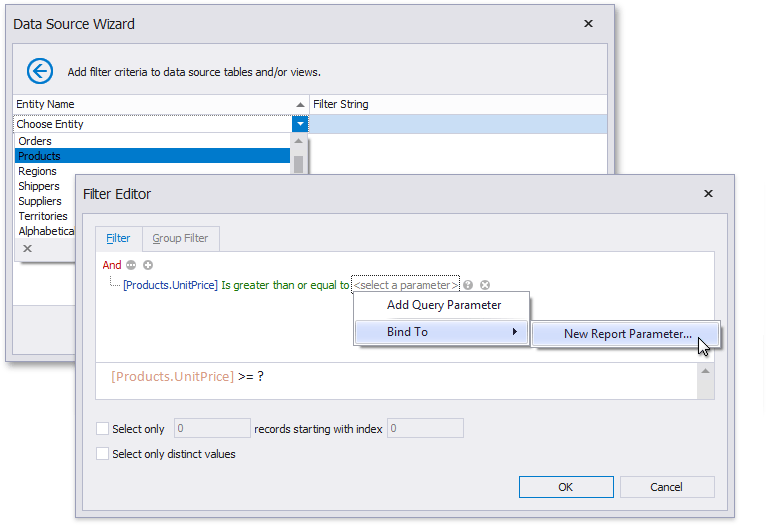
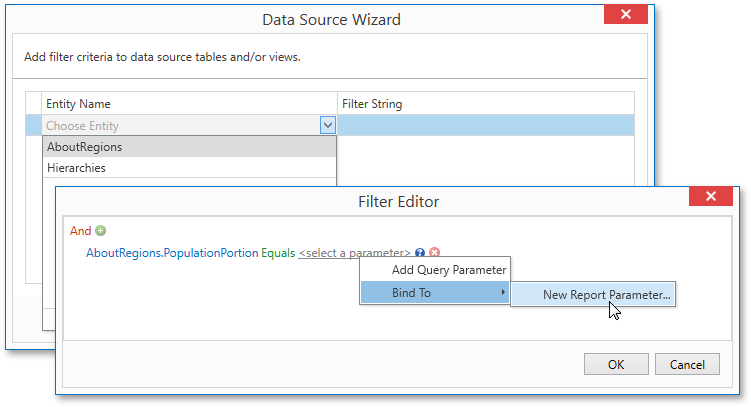
update wpf/win

diff --git a/interface-elements-for-desktop/articles/report-designer/report-designer-for-winforms/bind-to-data/bind-a-report-to-an-entity-framework-data-source.md b/interface-elements-for-desktop/articles/report-designer/report-designer-for-winforms/bind-to-data/bind-a-report-to-an-entity-framework-data-source.md
@@ -1,41 +1,63 @@
 ---
 title: Bind a Report to an Entity Framework Data Source
-author: Anna Gubareva
 ---
 # Bind a Report to an Entity Framework Data Source
 
 This document describes how to use an Entity Framework data source to bind a report to data provided by an Entity Framework data context:
+## Create a Report
 
-1. [Create a new report](../add-new-reports.md).
+[Create a new report](../add-new-reports.md).
 
-2. Click the report's smart tag. In the invoked actions list, expand the drop-down menu for the **Data Source** property and click **Add New DataSource**.
-	
-	![](../../../../images/eurd-win-report-smart-tag-add-new-data-source.png)
+## Select a Data Source and Specify Data Context
 
-3. On the first page of the invoked [Data Source Wizard](../report-designer-tools/data-source-wizard.md), select the **Entity Framework** and click **Next**.
+Click the report's smart tag. In the invoked actions list, expand the drop-down menu for the **Data Source** property and click **Add New DataSource**.
 	
-	![](../../../../images/eurd-win-data-source-wizard-select-ef.png)
+![](../../../../images/eurd-win-report-smart-tag-add-new-data-source.png)
 
-4. On the next page, select the required data context. You can bind it to an Entity Framework data context that is contained in either the current project assembly or a separate assembly.
+On the first page of the invoked [Data Source Wizard](../report-designer-tools/data-source-wizard.md), select the **Entity Framework** and click **Next**.
 	
-	To use a data context that exists in the current project assembly, select it in the **Choose Context** list and click **Next**.
-	
-	![eurd-win-report-wizard-ef-datasource](../../../../images/eurd-win-report-wizard-ef-datasource.png)
-	
-	Select the required data context and click **Next**.
-5. On the next page, specify a connection string to be used to establish a data connection using one of the following two options.
-	
-	* Use an existing connection string available in the current project. To do this, select **Yes, let me choose from the list**. Next, select the required connection string from the list of the available connection strings.
-		
-		![eurd-win-report-wizard-ef-datasource](../../../../images/eurd-winreport-wizard-ef-datasource.png)
+![](../../../../images/eurd-win-data-source-wizard-select-ef.png)
 
-	* Specify a connection string manually. To do this, select **No, specify a custom connection string** and click **Next**. On the next page, specify a connection string. You can choose to use the default connection string  or specify a custom connection string.
-		
-		![eurd-win-report-wizard-ef-datasource-specify-connection-string](../../../../images/eurd-win-report-wizard-ef-datasource-specify-connection-string.png)
-
-6. The next wizard page is available only if the current entity data model contains stored procedures. This page allows you to add stored procedures to the data source and configure their parameters. Click **Finish** to exit the wizard.
+On the next page, select the required data context. You can bind it to an Entity Framework data context that is contained in either the current project assembly or a separate assembly.
 	
-	![](../../../../images/eurd-win-data-source-wizard-ef-stored-procedures.png)
+To use a data context that exists in the current project assembly, select it in the **Choose Context** list and click **Next**.
+	
+![eurd-win-report-wizard-ef-datasource](../../../../images/eurd-win-report-wizard-ef-datasource.png)
+	
+Select the required data context and click **Next**.
+## Select a Connection String
+
+On the next page, specify a connection string used to establish a data connection. The following options are available:
+### Default Connection String
+
+Choose the default connection string if it is specified in the application’s configuration file.
+
+![EF default connection string](../../../../images/ef-default-connection-string-win.png)
+### Custom Connection String
+
+Specify a custom connection string in the connection string editor and choose whether or not to store the string in the application’s configuration file.
+
+![eurd-winreport-wizard-ef-datasource](../../../../images/eurd-winreport-wizard-ef-datasource.png)
+
+### Predefined Connection String
+
+Select an existing connection string available in the current project. 
+
+![eurd-winreport-wizard-ef-datasource](../../../../images/eurd-winreport-wizard-ef-datasource.png) 
+
+## Add Stored Procedures (Optionally)
+
+The next wizard page is available only if the current entity data model contains stored procedures. This page allows you to add stored procedures to the data source and configure their parameters. Click **Finish** to exit the wizard.
+	
+![](../../../../images/eurd-win-data-source-wizard-ef-stored-procedures.png)
+
+## Apply Filter Criteria
+
+On the last page, you can apply filter criteria to the resulting query. Click Finish to create the data source.
+
+![eurd-win-ef-datasource-configure-filters-finish](../../../../images/eurd-win-ef-datasource-configure-filters-finish.png)
+
+## Result
 	
 The newly created data source will be displayed in the **Data Sources** node of the [Report Explorer](../report-designer-tools/ui-panels/report-explorer.md). Additionally, the hierarchy of the data source will be reflected by the [Field List](../report-designer-tools/ui-panels/field-list.md).
 	

diff --git a/interface-elements-for-desktop/articles/report-designer/report-designer-for-wpf/creating-reports/providing-data/binding-a-report-to-data/bind-a-report-to-an-entity-framework-data-source.md b/interface-elements-for-desktop/articles/report-designer/report-designer-for-wpf/creating-reports/providing-data/binding-a-report-to-data/bind-a-report-to-an-entity-framework-data-source.md
@@ -6,28 +6,56 @@ legacyId: 116271
 # Bind a Report to an Entity Framework Data Source
 This document describes the steps required to connect a report to data provided by an Entity Framework data context.
 
-To bind a report to an Entity Framework data source, do the following.
-1. [Create a new report](../../basic-operations/create-a-new-report.md).
-2. Right-click the report and select **Edit...** in the context menu. In the invoked dialog, expand the **Data Source** drop-down and click the **Add New** button.
+To bind a report to an Entity Framework data source, do the following:
+
+# Create a Report
+
+[Create a new report](../../basic-operations/create-a-new-report.md).
+## Select a Data Source and Specify Data Context
+
+Right-click the report and select **Edit...** in the context menu. In the invoked dialog, expand the **Data Source** drop-down and click the **Add New** button.
 	
-	![EUD_WpfReportDesigner_AddDataSource](../../../../../../images/img123562.png)
-3. The first page of the invoked **Data Source Wizard** allows you to specify the data source type. Select **Entity Framework** and click **Next** to proceed.
+![EUD_WpfReportDesigner_AddDataSource](../../../../../../images/img123562.png)
+
+The first page of the invoked **Data Source Wizard** allows you to specify the data source type. Select **Entity Framework** and click **Next** to proceed.
 	
-	![EUD_WpfReportDesigner_DataSourceWizard_EF](../../../../../../images/img123564.png)
-4. On the next page, select the required data context from the list of available data contexts and click **Next**.
+![EUD_WpfReportDesigner_DataSourceWizard_EF](../../../../../../images/img123564.png)
+
+On the next page, select the required data context from the list of available data contexts and click **Next**.
 	
-	![EUD_WpfReportDesigner_EF_1](../../../../../../images/img123989.png)
-5. Select a connection string to be used to establish a data connection.
+![EUD_WpfReportDesigner_EF_1](../../../../../../images/img123989.png)
+
+## Select a Connection String
+
+On the next page, specify a connection string used to establish a data connection. The following options are available:
+### Default Connection String
+
+Choose the default connection string if it is specified in the application’s configuration file.
+
+![EF default connection string](../../../../../../images/ef-default-connection-string.png)
+### Custom Connection String
+
+Specify a custom connection string in the connection string editor and choose whether or not to store the string in the application’s configuration file.
+
+![WpfReportWizard_EF_SpecifyConnectionString](../../../../../../images/img122129.png)
+
+### Predefined Connection String
+
+Select an existing connection string available in the current project.
+
+![WpfReportWizard_EF_SelectConnectionString](../../../../../../images/img122128.png)
+
+## Add Stored Procedures (Optionally)
+
+The following wizard page is available only if the current entity data model contains stored procedures. To bind to a stored procedure, click **Add**. Then, in the invoked window, select a required stored procedure and click **OK**.
 	
-	![EUD_WpfReportDesigner_EF_2](../../../../../../images/img123990.png)
+![EUD_WpfReportDesigner_EF_3](../../../../../../images/img123991.png)
+
+Configure the parameters to be passed to the selected stored procedure. Be sure to specify the correct parameter **Type**. Click **Finish** to exit the wizard.
 	
-	Click **Next** to proceed to the next page.
-6. The following wizard page is available only if the current entity data model contains stored procedures. To bind to a stored procedure, click **Add**. Then, in the invoked window, select a required stored procedure and click **OK**.
-	
-	![EUD_WpfReportDesigner_EF_3](../../../../../../images/img123991.png)
-7. Configure the parameters to be passed to the selected stored procedure. Be sure to specify the correct parameter **Type**. Click **Finish** to exit the wizard.
-	
-	![EUD_WpfReportDesigner_EF_4](../../../../../../images/img123992.png)
+![EUD_WpfReportDesigner_EF_4](../../../../../../images/img123992.png)
+
+## Result	
 
 The newly created Entity Framework data source will be displayed in the **Components** node of the [Report Explorer](../../../interface-elements/report-explorer.md). Additionally, the hierarchy of the data source will be reflected by the [Field List](../../../interface-elements/field-list.md).
 

diff --git a/interface-elements-for-desktop/articles/report-designer/report-designer-for-wpf/report-wizard/data-bound-report/connect-to-an-entity-framework-data-source/select-the-connection-string.md b/interface-elements-for-desktop/articles/report-designer/report-designer-for-wpf/report-wizard/data-bound-report/connect-to-an-entity-framework-data-source/select-the-connection-string.md
@@ -1,15 +1,27 @@
 ---
-title: Select the Connection String
+title: Select a Connection String
 author: Anna Gubareva
 legacyId: 116261
 ---
-# Select the Connection String
-This page allows you to specify a connection string to be used to establish a data connection.
+# Select a Connection String
 
-The following two options are available.
-* **No, specify a custom connection string** - Select this option to specify a connection string manually.
-* **Yes, let me choose from the list** - Select this option to use one of the existing connection strings from the list.
+This page allows you to specify a connection string used to establish a data connection. The following options are available:
+
+## Default Connection String
+
+Choose the default connection string if it is specified in the application’s configuration file.
+
+![EF default connection string](../../../../../../images/ef-default-connection-string.png)
+## Custom Connection String
+
+Specify a custom connection string in the connection string editor and choose whether or not to store the string in the application’s configuration file.
 
 ![WpfReportWizard_EF_SelectConnectionString](../../../../../../images/img122128.png)
 
-Click **Next** to proceed to the next wizard page. If you select the first option, proceed to the [Specify a Connection String](specify-a-connection-string.md) page. If you choose one of the available connection strings, go to the [Bind to a Stored Procedure](bind-to-a-stored-procedure.md) or [Select a Data Member](select-a-data-member.md) page, depending on whether or not the current Entity Framework model provides stored procedures.
+## Predefined Connection String
+
+Select an existing connection string available in the current project.
+
+![WpfReportWizard_EF_SpecifyConnectionString](../../../../../../images/img122129.png)
+
+Click **Next** to proceed to the next wizard page. If the current Entity Framework model provides stored procedures, go to the [Bind to a Stored Procedure](bind-to-a-stored-procedure.md) page; otherwise, proceed to the [Configure Filters](configure-filters.md) page.

diff --git a/interface-elements-for-desktop/articles/report-designer/report-designer-for-winforms/report-designer-tools/data-source-wizard/connect-to-an-entity-framework-data-source/select-a-connection-string.md b/interface-elements-for-desktop/articles/report-designer/report-designer-for-winforms/report-designer-tools/data-source-wizard/connect-to-an-entity-framework-data-source/select-a-connection-string.md
@@ -3,10 +3,23 @@ title: Select a Connection String
 ---
 # Select a Connection String
 
-On this page, you can specify a connection string using one of the following two options.
-* Using an existing connection string. To do this, select **Yes, let me choose from list**. Next, select the required connection string from the list of the available connection strings.
-* Specify a connection string manually. To do this, select **No, specify a custom connection string**.
+This page allows you to specify a connection string used to establish a data connection. The following options are available:
+
+## Default Connection String
+Choose the default connection string if it is specified in the application’s configuration file.
+
+![EF default connection string](../../../../../../images/ef-default-connection-string-win.png)
+## Custom Connection String
+
+Specify a custom connection string in the connection string editor and choose whether or not to store the string in the application’s configuration file.
 
 ![eurd-winreport-wizard-ef-datasource](../../../../../../images/eurd-winreport-wizard-ef-datasource.png)
 
-Click **Next** to proceed to the next wizard page. If you select the first option, proceed to the [Specify a Connection String](specify-a-connection-string.md) page. If you choose one of the available connection strings, go to the [Bind to a Stored Procedure](bind-to-a-stored-procedure.md) or [Select a Data Member](select-a-data-member.md) page, depending on whether or not the current Entity Framework model provides stored procedures.
+## Predefined Connection String
+
+Select an existing connection string available in the current project.
+
+![eurd-winreport-wizard-ef-datasource](../../../../../../images/eurd-winreport-wizard-ef-datasource.png) 
+
+Click **Next** to proceed to the next wizard page. If the current Entity Framework model contains stored procedures, go to the Bind to a [Stored Procedure](bind-to-a-stored-procedure.md) page; otherwise, proceed to the [Configure Filters](configure-filters.md) page.
+

diff --git a/interface-elements-for-desktop/articles/report-designer/report-designer-for-wpf/report-wizard/data-bound-report/connect-to-an-entity-framework-data-source/configure-filters.md b/interface-elements-for-desktop/articles/report-designer/report-designer-for-wpf/report-wizard/data-bound-report/connect-to-an-entity-framework-data-source/configure-filters.md
@@ -1,0 +1,15 @@
+---
+title: Configure Filters
+author: Margarita Zakhodyaeva
+---
+# Configure Filters
+
+This wizard page allows you to define any number of [filter criteria](../../../../report-designer-for-winforms/use-expressions.md) for your data source.
+
+The **Filter Editor** is displayed after choosing an entity on this wizard page.
+
+![ef-datasource-configure-filters-editor-report-parameter](../../../../../../images/ef-datasource-configure-filters-editor-report-parameter131075.png)
+
+Use this editor to define the selected entity's filter criteria. The filter string can also reference [report parameters](../../../creating-reports/providing-data/report-parameters.md).
+
+![ef-datasource-configure-filters-finish](../../../../../../images/ef-datasource-configure-filters-finish131076.png)

diff --git a/interface-elements-for-desktop/articles/report-designer/report-designer-for-wpf/report-wizard/data-bound-report/connect-to-an-entity-framework-data-source.md b/interface-elements-for-desktop/articles/report-designer/report-designer-for-wpf/report-wizard/data-bound-report/connect-to-an-entity-framework-data-source.md
@@ -9,6 +9,6 @@ The topics in this section describe the wizard steps required to connect a repor
 This task includes the following steps.
 * [Select the Data Context](connect-to-an-entity-framework-data-source/select-the-data-context.md)
 * [Select the Connection String](connect-to-an-entity-framework-data-source/select-the-connection-string.md)
-* [Specify a Connection String](connect-to-an-entity-framework-data-source/specify-a-connection-string.md)
 * [Bind to a Stored Procedure](connect-to-an-entity-framework-data-source/bind-to-a-stored-procedure.md)
 * [Select a Data Member](connect-to-an-entity-framework-data-source/select-a-data-member.md)
+* [Configure Filters](connect-to-an-entity-framework-data-source/configure-filters.md)

diff --git a/interface-elements-for-desktop/articles/report-designer/report-designer-for-winforms/report-designer-tools/data-source-wizard/connect-to-an-entity-framework-data-source.md b/interface-elements-for-desktop/articles/report-designer/report-designer-for-winforms/report-designer-tools/data-source-wizard/connect-to-an-entity-framework-data-source.md
@@ -7,7 +7,6 @@ The topics in this section describe the steps required to connect a report to an
 
 * [Select the Data Context](connect-to-an-entity-framework-data-source\select-the-data-context.md)
 * [Select a Connection String](connect-to-an-entity-framework-data-source\select-a-connection-string.md)
-* [Specify a Connection String](connect-to-an-entity-framework-data-source\specify-a-connection-string.md)
 * [Bind to a Stored Procedure](connect-to-an-entity-framework-data-source\bind-to-a-stored-procedure.md)
 * [Select a Data Member](connect-to-an-entity-framework-data-source\select-a-data-member.md)
 * [Configure Filters](connect-to-an-entity-framework-data-source\configure-filters.md)

diff --git a/interface-elements-for-desktop/articles/report-designer/report-designer-for-wpf/report-wizard/data-bound-report/connect-to-an-entity-framework-data-source/select-a-data-member.md b/interface-elements-for-desktop/articles/report-designer/report-designer-for-wpf/report-wizard/data-bound-report/connect-to-an-entity-framework-data-source/select-a-data-member.md
@@ -8,4 +8,4 @@ This wizard page allows you to select one of the available data members that wil
 
 ![WpfReportWizard_EF_SelectDataMember](../../../../../../images/img124455.png)
 
-Click **Next** to proceed to the next wizard page: [Choose Columns to Display in a Report](../choose-columns-to-display-in-a-report.md).
+Click **Next** to proceed to the next wizard page: [Configure Filters](configure-filters.md).
